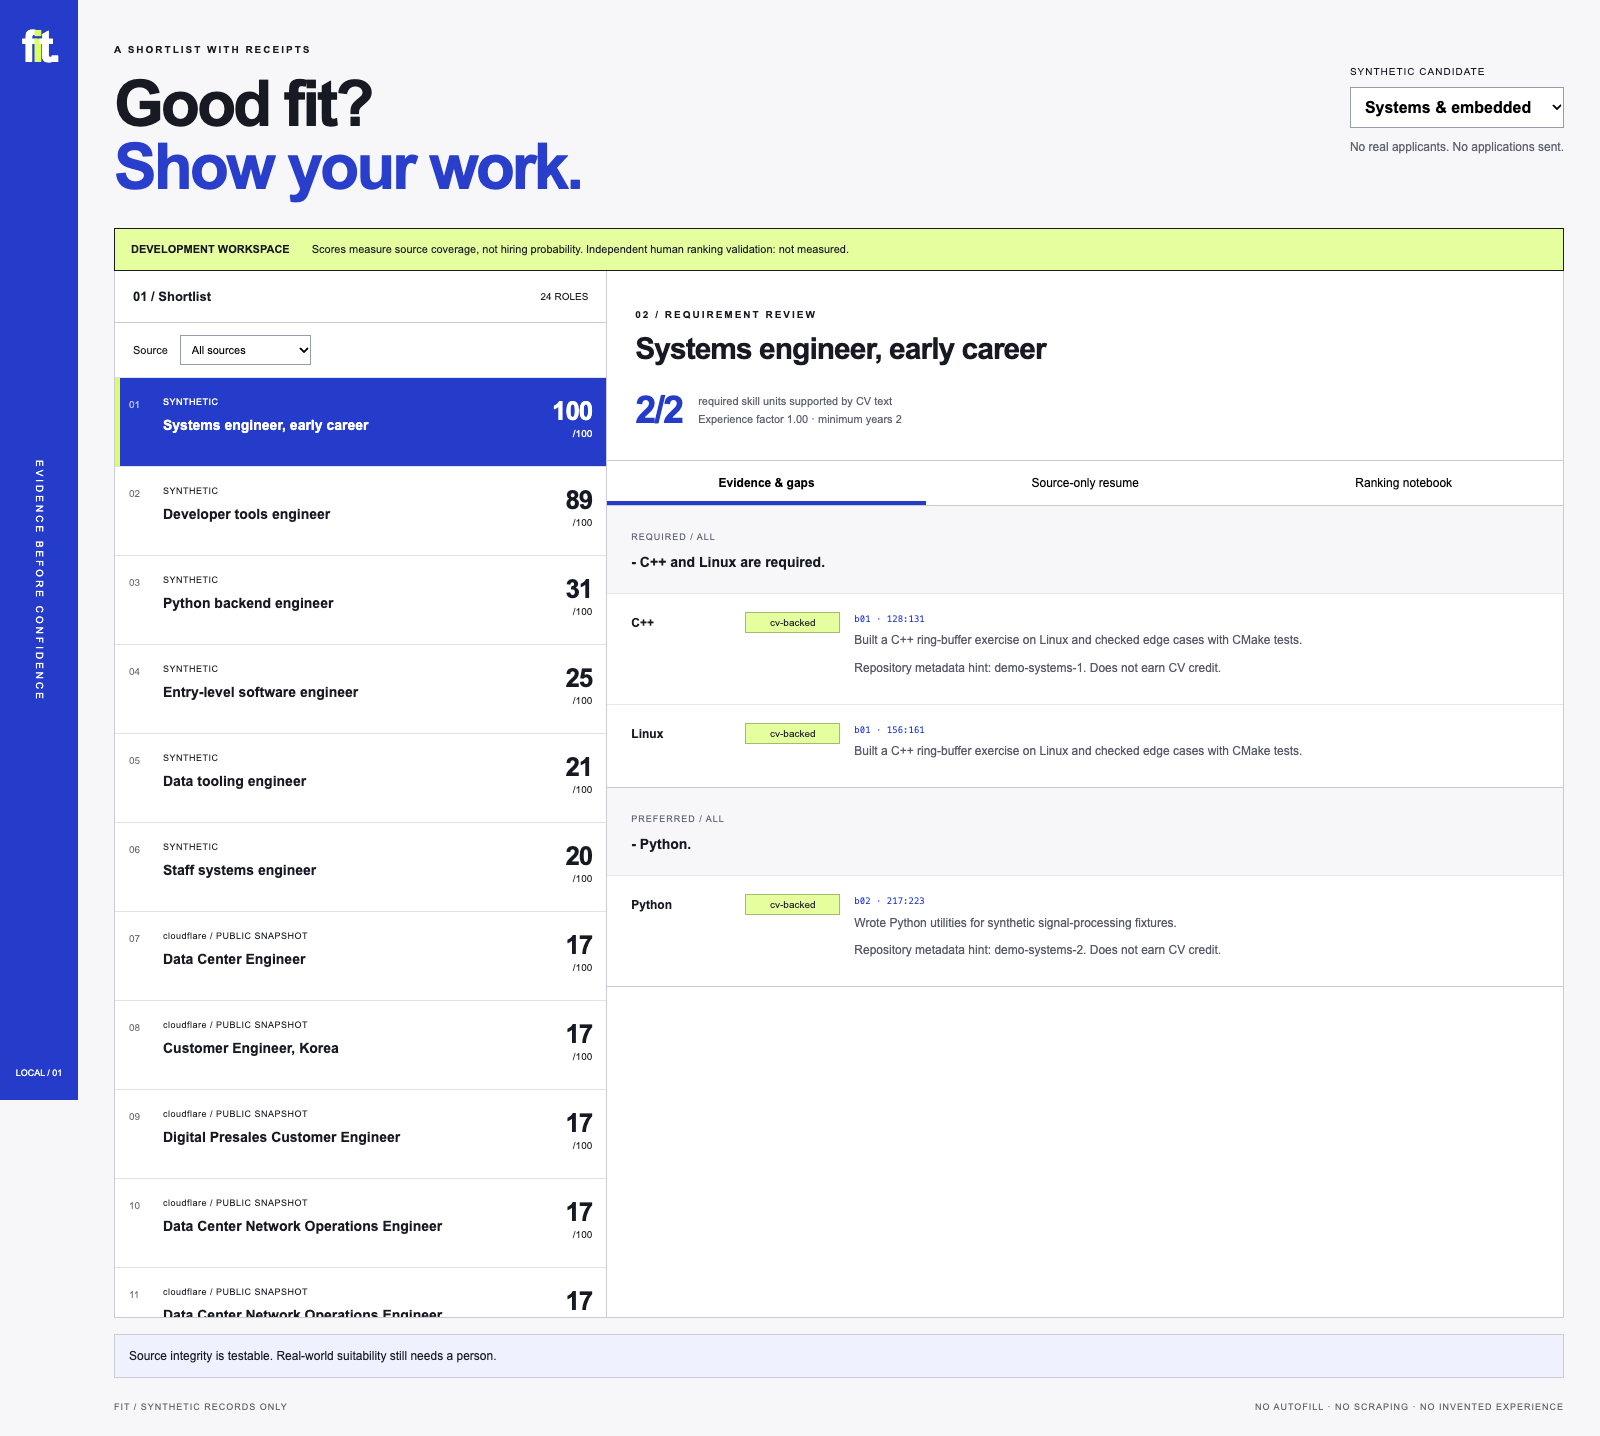
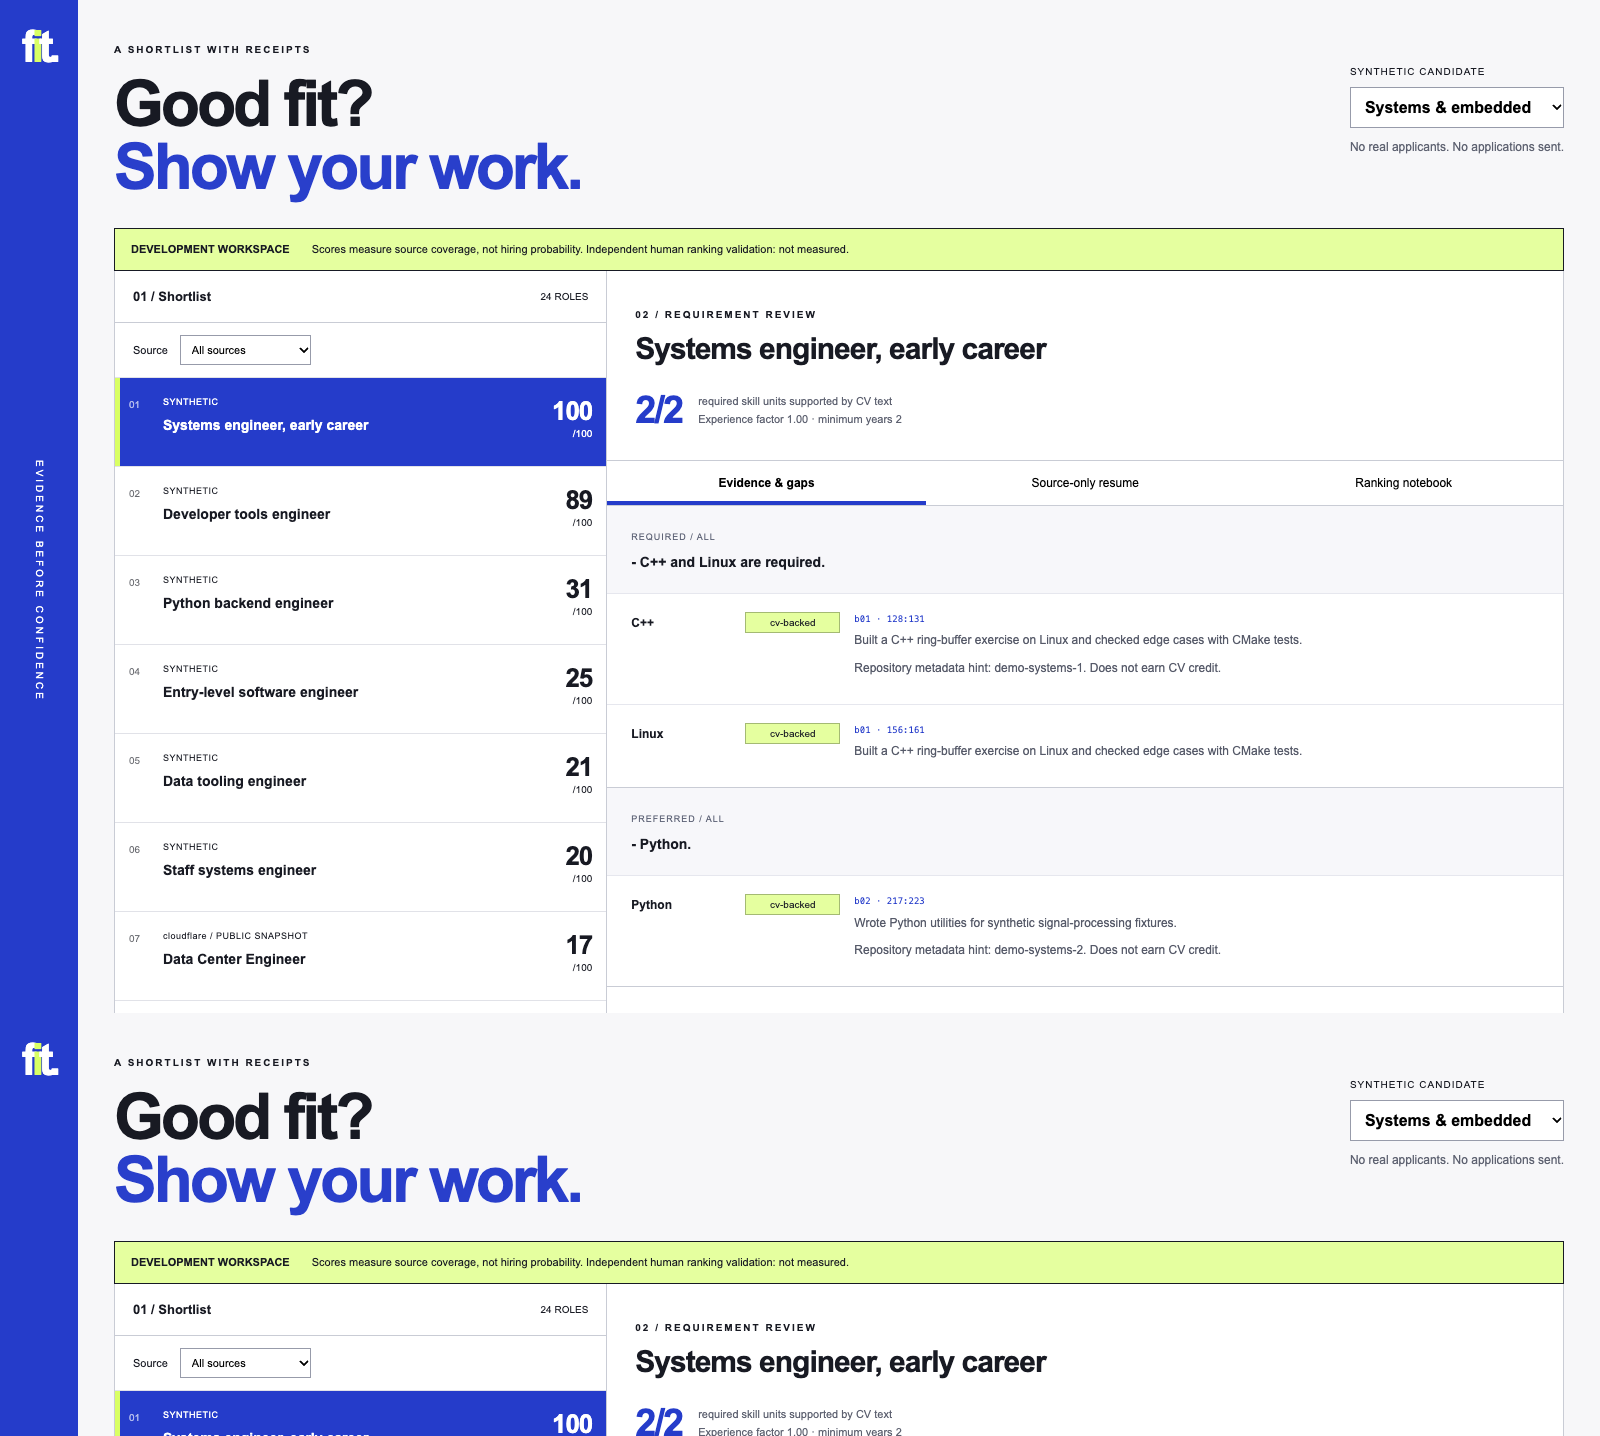
Constrain mechanical recoil to immediate neighboring controls

Changed region(s): [[0.0, 0.7047, 1.0, 1.0], [0.8438, 0.766, 0.9688, 0.8273], [0.3438, 0.7047, 0.375, 0.7354]]

diff --git a/src/web/motion.ts b/src/web/motion.ts
@@ -127,14 +127,21 @@ function installMotion(profile: MotionProfile) {
       interacted = true;
       play(control, profile.press, 160);
       if (control.matches(profile.neighbors)) {
-        for (const sibling of Array.from(control.parentElement?.children || [])
-          .filter((x) => x !== control && x.matches(profile.neighbors))
-          .slice(0, 2)) {
+        const neighbors = [
+          control.previousElementSibling,
+          control.nextElementSibling,
+        ];
+        for (const [index, sibling] of neighbors.entries()) {
+          if (!sibling || !sibling.matches(profile.neighbors)) continue;
+          const displacement = index === 0 ? -2 : 2;
           play(
             sibling,
             [
               { transform: "translateX(0) scaleX(1)" },
-              { transform: "translateX(2px) scaleX(0.985)", offset: 0.28 },
+              {
+                transform: "translateX(" + displacement + "px) scaleX(0.985)",
+                offset: 0.28,
+              },
               { transform: "translateX(0) scaleX(1)" },
             ],
             190,

diff --git a/docs/MOTION.md b/docs/MOTION.md
@@ -19,3 +19,5 @@ Accessibility reference: [W3C SCR40](https://www.w3.org/WAI/WCAG21/Techniques/cl
 The existing real-service browser workflow was also rerun; see `docs/results/motion/live-browser.log` and `browser/`. Those tests exercise the application’s real backend, separate from the synthetic motion contract.
 
 Button feedback begins when click targeting is committed, so the first press does not shrink a hitbox underneath the pointer. Editable/dragging surfaces are excluded. Backend APIs, ranking/math policies, measurements, and document source data were not changed.
+
+Connected controls recoil only with their immediate previous/next matching siblings. The left sibling moves left, the right moves right; distant controls do not react. The runtime reads sibling references, not geometry.
